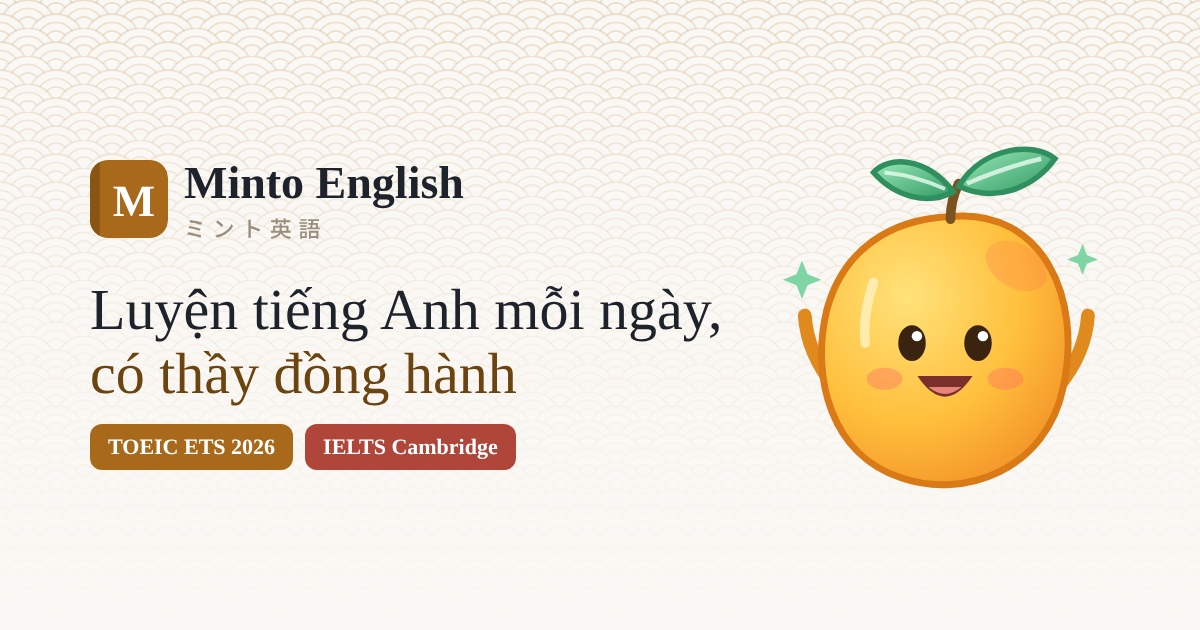
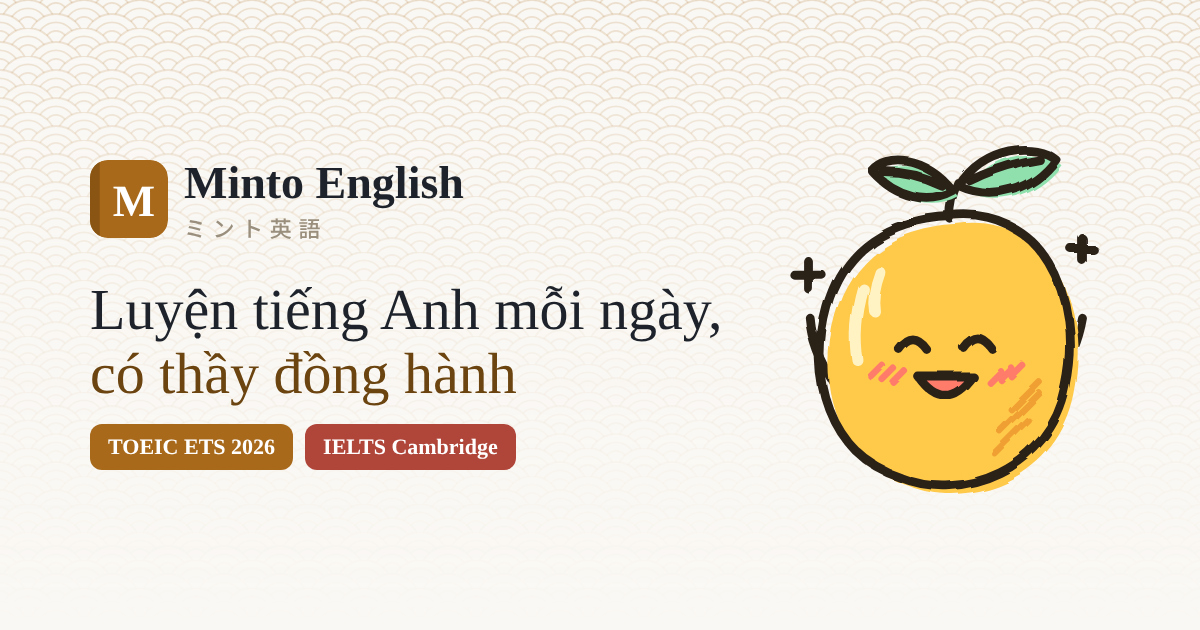
Bé Xoài kiểu doodle
Claude-Session: https://claude.ai/code/session_01UghZ1Lp7JwVrTfFy3TMYwH

Changed region(s): [[0.6475, 0.2111, 0.925, 0.7841]]

diff --git a/index.html b/index.html
@@ -67,7 +67,7 @@ footer{padding:40px 0 50px;color:var(--dim);font-size:13.5px;display:flex;justif
   <h1>Luyện tiếng Anh mỗi ngày, <em>có thầy đồng hành</em></h1>
   <p class="lead">Web luyện tập miễn phí cho học viên của thầy Minto. Đề TOEIC và IELTS chấm điểm ngay, giải thích tiếng Việt từng câu, có kiến thức nền cho bạn mới bắt đầu.</p>
  </div>
- <div class="buddy fx" style="animation-delay:.15s"><div class="bub">Chào bạn! Mình là <b>Xoài Bạc Hà</b> 🥭🌿<br>Hôm nay bạn luyện TOEIC hay IELTS?</div><svg class="mmint " viewBox="0 0 120 140" aria-hidden="true"><defs><radialGradient id="mgo" cx=".35" cy=".3" r=".85"><stop offset="0" stop-color="#ffe27a"/><stop offset=".55" stop-color="#ffbf3c"/><stop offset="1" stop-color="#f08a24"/></radialGradient><linearGradient id="mlf" x1="0" y1="0" x2="1" y2="1"><stop offset="0" stop-color="#9be8b8"/><stop offset="1" stop-color="#2f9a63"/></linearGradient></defs><path d="M20 96 Q10 84 9 70" stroke="#e08a1e" stroke-width="5" fill="none" stroke-linecap="round"/><path d="M101 96 Q111 84 112 70" stroke="#e08a1e" stroke-width="5" fill="none" stroke-linecap="round"/><path d="M8 50l2 5 5 2-5 2-2 5-2-5-5-2 5-2z M110 44l1.6 4 4 1.6-4 1.6-1.6 4-1.6-4-4-1.6 4-1.6z" fill="#7fd6a4"/><path d="M62 34 C 96 31 110 64 103 96 C 97 126 67 137 44 129 C 19 121 11 93 17 68 C 23 46 40 35 62 34 Z" fill="url(#mgo)" stroke="#d97a16" stroke-width="2.5"/><ellipse cx="86" cy="52" rx="12" ry="8" fill="#ff7a4a" opacity=".28" transform="rotate(30 86 52)"/><path d="M34 58 Q30 70 31 80" stroke="#fff6cf" stroke-width="3.5" fill="none" stroke-linecap="round" opacity=".7"/><path d="M62 35 Q62 28 65 22" stroke="#7a5320" stroke-width="3.5" fill="none" stroke-linecap="round"/><path d="M65 23 C 74 8 93 7 100 13 C 92 24 78 29 65 23 Z" fill="url(#mlf)" stroke="#2f8f5f" stroke-width="2"/><path d="M68 22 Q82 16 95 13" stroke="#e9fbf0" stroke-width="1.6" fill="none" opacity=".8"/><path d="M63 25 C 53 12 39 12 34 18 C 42 27 54 30 63 25 Z" fill="url(#mlf)" stroke="#2f8f5f" stroke-width="2"/><path d="M60 24 Q49 19 38 18" stroke="#e9fbf0" stroke-width="1.4" fill="none" opacity=".8"/><ellipse cx="48" cy="80" rx="5" ry="6.5" fill="#3a2410"/><circle cx="49.8" cy="77.5" r="1.9" fill="#fff"/><ellipse cx="72" cy="80" rx="5" ry="6.5" fill="#3a2410"/><circle cx="73.8" cy="77.5" r="1.9" fill="#fff"/><ellipse cx="38" cy="93" rx="6.5" ry="4" fill="#ff6f61" opacity=".4"/><ellipse cx="82" cy="93" rx="6.5" ry="4" fill="#ff6f61" opacity=".4"/><path d="M50 92 Q60 107 70 92 Z" fill="#7a2f2a"/><path d="M54 96 Q60 101 66 96" fill="#e8837a"/></svg></div>
+ <div class="buddy fx" style="animation-delay:.15s"><div class="bub">Chào bạn! Mình là <b>Xoài Bạc Hà</b> 🥭🌿<br>Hôm nay bạn luyện TOEIC hay IELTS?</div><svg class="mmint  doodle" viewBox="0 0 120 140" aria-hidden="true"><defs><filter id="rough" x="-10%" y="-10%" width="120%" height="120%"><feTurbulence type="fractalNoise" baseFrequency=".045" numOctaves="2" seed="4"/><feDisplacementMap in="SourceGraphic" scale="3.2"/></filter></defs><g filter="url(#rough)"><path d="M20 95 q-8 -12 -9 -24 M100 95 q8 -12 10 -24" stroke="#2b2118" stroke-width="3.2" fill="none" stroke-linecap="round" stroke-linejoin="round"/><path d="M10 50 v10 M5 55 h10 M110 42 v8 M106 46 h8" stroke="#2b2118" stroke-width="3.2" fill="none" stroke-linecap="round" stroke-linejoin="round" stroke-width="2.4"/><path d="M62 34 C 95 30 111 63 104 96 C 98 126 66 138 44 129 C 18 121 10 92 17 67 C 23 45 40 35 62 34 Z" fill="#ffc94a" transform="translate(3 3)"/><path d="M30 60 q-4 14 -2 26 M36 54 q-3 8 -2 14" stroke="#fff3c4" stroke-width="4" stroke-linecap="round" fill="none"/><path d="M84 104 l10 -10 M80 112 l14 -14 M78 120 l12 -12" stroke="#f0a033" stroke-width="2.4" stroke-linecap="round"/><path d="M62 34 C 95 30 111 63 104 96 C 98 126 66 138 44 129 C 18 121 10 92 17 67 C 23 45 40 35 62 34 Z" stroke="#2b2118" stroke-width="3.2" fill="none" stroke-linecap="round" stroke-linejoin="round"/><path d="M62 35 q0 -7 3 -13" stroke="#2b2118" stroke-width="3.2" fill="none" stroke-linecap="round" stroke-linejoin="round"/><path d="M65 23 C 74 8 93 7 100 13 C 92 24 78 29 65 23 Z" fill="#8fe0ad" transform="translate(2 2)"/><path d="M65 23 C 74 8 93 7 100 13 C 92 24 78 29 65 23 Z M69 21 q12 -6 25 -8" stroke="#2b2118" stroke-width="3.2" fill="none" stroke-linecap="round" stroke-linejoin="round" stroke-width="2.8"/><path d="M63 25 C 53 12 39 12 34 18 C 42 27 54 30 63 25 Z" fill="#8fe0ad" transform="translate(2 2)"/><path d="M63 25 C 53 12 39 12 34 18 C 42 27 54 30 63 25 Z M59 23 q-10 -5 -21 -5" stroke="#2b2118" stroke-width="3.2" fill="none" stroke-linecap="round" stroke-linejoin="round" stroke-width="2.8"/><path d="M43 82 q5 -7 10 0 M67 82 q5 -7 10 0" stroke="#2b2118" stroke-width="3.2" fill="none" stroke-linecap="round" stroke-linejoin="round"/><path d="M33 92 l4 -4 M37 93 l4 -4 M41 94 l4 -4 M76 94 l4 -4 M80 93 l4 -4 M84 92 l4 -4" stroke="#ff7b6b" stroke-width="2.4" stroke-linecap="round"/><path d="M50 92 q10 14 20 0 z" fill="#ff7b6b" stroke="#2b2118" stroke-width="3.2" stroke-linecap="round" stroke-linejoin="round"/></g></svg></div>
 </section>
 <div class="sites">
  <a class="site t fx" style="animation-delay:.2s" href="https://mangomint1805.github.io/toeic/"><span class="tag">TOEIC LISTENING &amp; READING</span><h2>Luyện đề TOEIC</h2><p>Bộ ETS 2026, quy đổi điểm thang 990 ngay khi nộp bài.</p>
